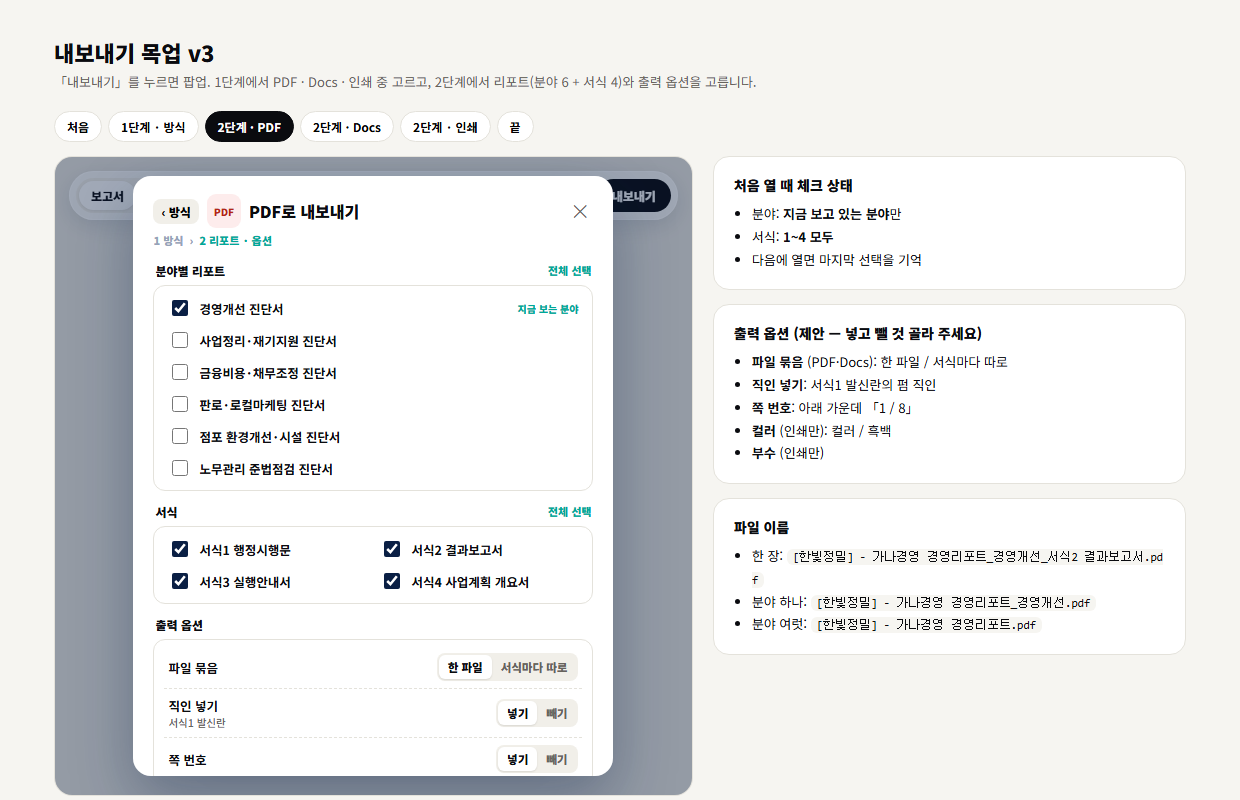
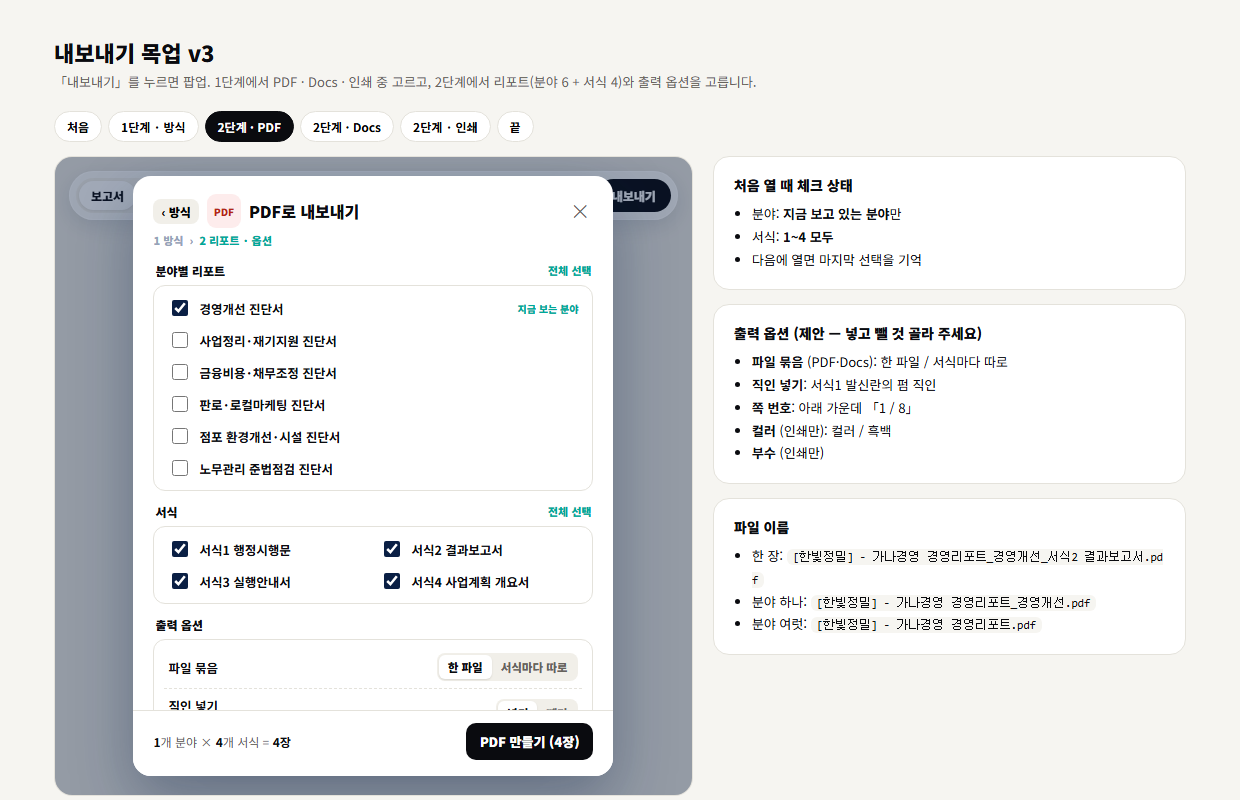
내보내기 목업 v3 — 팝업 2단계(방식 → 리포트 10개 체크·출력 옵션)

Changed region(s): [[0.3677, 0.875, 0.4903, 0.9688], [0.1226, 0.875, 0.2452, 0.9688]]

diff --git a/design/mockup-export.html b/design/mockup-export.html
@@ -41,7 +41,7 @@ h2{font-size:14px;font-weight:900;color:var(--sub);margin:36px 0 12px}
 .opt small{display:block;font-size:10.5px;color:var(--sub);font-weight:500}
 .sg{display:inline-flex;background:#F1EFE9;border-radius:8px;padding:2px}.sg span{padding:4px 9px;border-radius:6px;font-size:11.5px;font-weight:800;color:var(--sub);cursor:pointer}.sg span.on{background:#fff;color:var(--ink);box-shadow:0 1px 2px rgba(0,0,0,.1)}
 .warn{font-size:11.5px;background:#FFF8E1;border:1px solid #FFE08A;border-radius:10px;padding:7px 10px;margin:10px 0 0;line-height:1.5}.warn a{color:#8A5A00;font-weight:800}
-.foot{display:flex;align-items:center;gap:8px;margin-top:12px}.cnt{font-size:12px;color:var(--sub)}.cnt b{color:var(--ink)}
+.foot{display:flex;align-items:center;gap:8px;margin:12px -20px -18px;padding:12px 20px 16px;position:sticky;bottom:-18px;background:#fff;border-top:1px solid var(--line)}.cnt{font-size:12px;color:var(--sub)}.cnt b{color:var(--ink)}
 .btn{border:0;border-radius:10px;padding:9px 14px;font:800 13px "Noto Sans KR";cursor:pointer}.btn.pri{background:var(--ink);color:#fff;margin-left:auto}.btn.pri:disabled{opacity:.35;cursor:default}
 .toast{position:absolute;bottom:18px;left:50%;transform:translateX(-50%);background:var(--ink);color:#fff;font-size:12px;font-weight:700;padding:9px 16px;border-radius:999px;display:none;z-index:7}.toast.open{display:block}
 .card{background:#fff;border:1px solid var(--line);border-radius:16px;padding:18px 20px;margin-bottom:14px}
